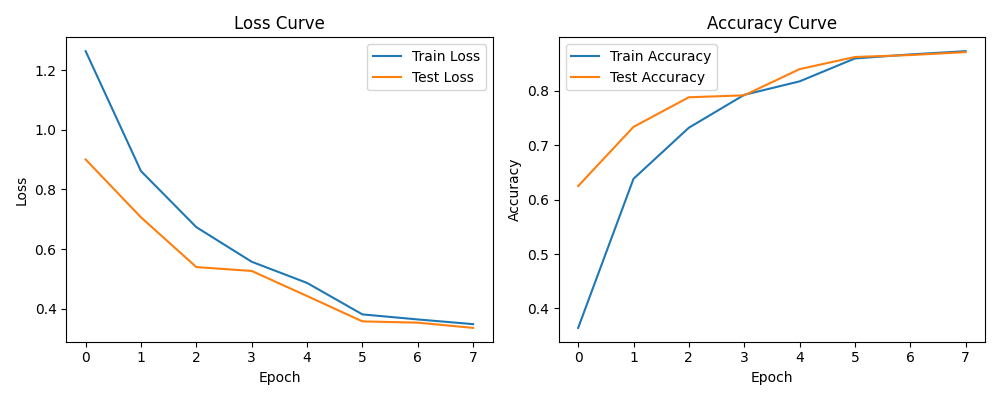
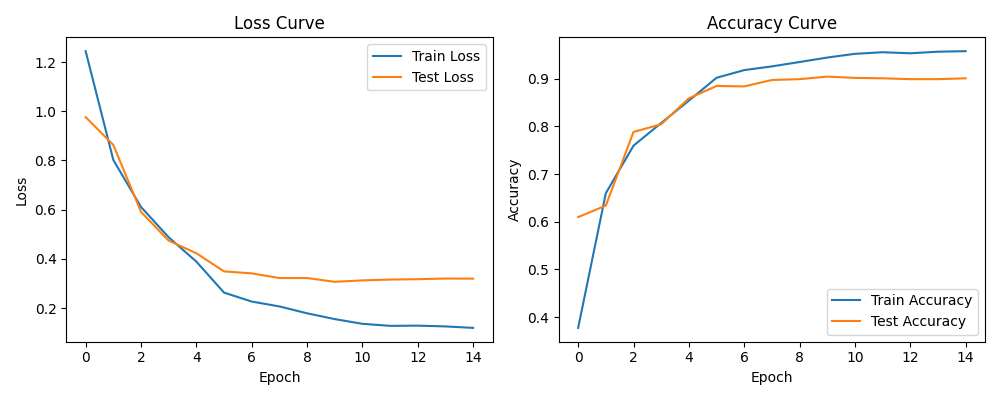
Graph creation

diff --git a/Testing.py b/Testing.py
@@ -24,7 +24,6 @@ class VGG16MRI(nn.Module):
             # Block 2
             nn.Conv2d(64, 128, kernel_size=3, padding=1), nn.ReLU(inplace=True),
             nn.Conv2d(128, 128, kernel_size=3, padding=1), nn.ReLU(inplace=True),
-            nn.Conv2d(128, 128, kernel_size=3, padding=1), nn.ReLU(inplace=True),
             nn.MaxPool2d(kernel_size=2, stride=2),
             
             # Block 3
@@ -47,9 +46,9 @@ class VGG16MRI(nn.Module):
         )
         
         self.classifier = nn.Sequential(
-            nn.Linear(512 * 8 * 8, 512), nn.ReLU(inplace=True), nn.Dropout(),
-            nn.Linear(512, 512), nn.ReLU(inplace=True), nn.Dropout(),
-            nn.Linear(512, num_classes),
+            nn.Linear(512 * 8 * 8, 2048), nn.ReLU(inplace=True), nn.Dropout(),
+            nn.Linear(2048, 2048), nn.ReLU(inplace=True), nn.Dropout(),
+            nn.Linear(2048, num_classes),
         )
 
     def forward(self, x):
@@ -62,7 +61,7 @@ class VGG16MRI(nn.Module):
 # =========================================================
 # 2. Paths and settings
 # =========================================================
-model_path = r"D:\Users\carld\Documents\School\EECE 565\MRICancerClassification\vgg16mriclass_2.pth"
+model_path = r"D:\Users\carld\Documents\School\EECE 565\MRICancerClassification\vgg16mriclass.pth"
 test_dir   = r"D:\Users\carld\Documents\School\EECE 565\MRICancerClassification\cleaned\Testing"
 
 batch_size = 16

diff --git a/PerformanceCalcs.py b/PerformanceCalcs.py
@@ -1,0 +1,47 @@
+import numpy as np
+from tabulate import tabulate
+
+
+cm = np.array([[246, 25, 1, 8],
+               [23, 231, 9, 17],
+               [1, 6, 270, 3],
+               [9, 5, 0, 266] ])
+
+TP = []
+FP = []
+FN = []
+TN = []
+DA = []
+Sens = []
+Spec = []
+PPV = []
+NPV = []
+
+for i in range(4):
+    TP.append(cm[i][i])
+    FP.append(sum(cm[:, i]) - TP[i])
+    FN.append(sum(cm[i, :]) - TP[i])
+    TN.append(sum(sum(cm)) - (TP[i] + FP[i] + FN[i]))
+    DA.append((TP[i] + TN[i]) / (TP[i] + FP[i] + FN[i] + TN[i]))
+    Sens.append(TP[i] / (TP[i] + FN[i]))
+    Spec.append(TN[i] / (TN[i] + FP[i]))
+    PPV.append(TP[i] / (TP[i] + FP[i]))
+    NPV.append(TN[i] / (TN[i] + FN[i]))
+
+ModelDA = np.mean(DA)
+
+classes = ["Sensitivity", "Specificity", "PPV", "NPV", "Accuracy"]
+
+print(f"Model DA: {ModelDA:.4f}")
+print("Class-wise metrics:")
+
+for i in range(4):
+    print(f"{classes[i]}: Sens={Sens[i]:.4f}, Spec={Spec[i]:.4f}, PPV={PPV[i]:.4f}, NPV={NPV[i]:.4f}")
+
+
+# Optional: Tabulate results
+table = []
+for i in range(4):
+    table.append([classes[i], Sens[i], Spec[i], PPV[i], NPV[i]])
+table.append(["Accuracy", ModelDA, "", "", ""])
+print("\n" + tabulate(table, headers=["Metric", "Glioma", "Meningioma", "noTumor", "Pituitary"], floatfmt=".4f"))

diff --git a/VGG16_Layers.py b/VGG16_Layers.py
@@ -50,6 +50,7 @@ class VGG16MRI(nn.Module):
             nn.Linear(2048, 2048), nn.ReLU(inplace=True), nn.Dropout(),
             nn.Linear(2048, num_classes),
         )
+        
 
     def forward(self, x):
         x = self.features(x)
@@ -80,8 +81,6 @@ validate_pct = 0.2
 # -----------------------------
 train_transform = transforms.Compose([
     transforms.Resize((256, 256)),
-    transforms.RandomHorizontalFlip(),
-    transforms.RandomRotation(20),
     transforms.ToTensor(),
     transforms.Normalize([0.485, 0.456, 0.406],
                          [0.229, 0.224, 0.225]),
